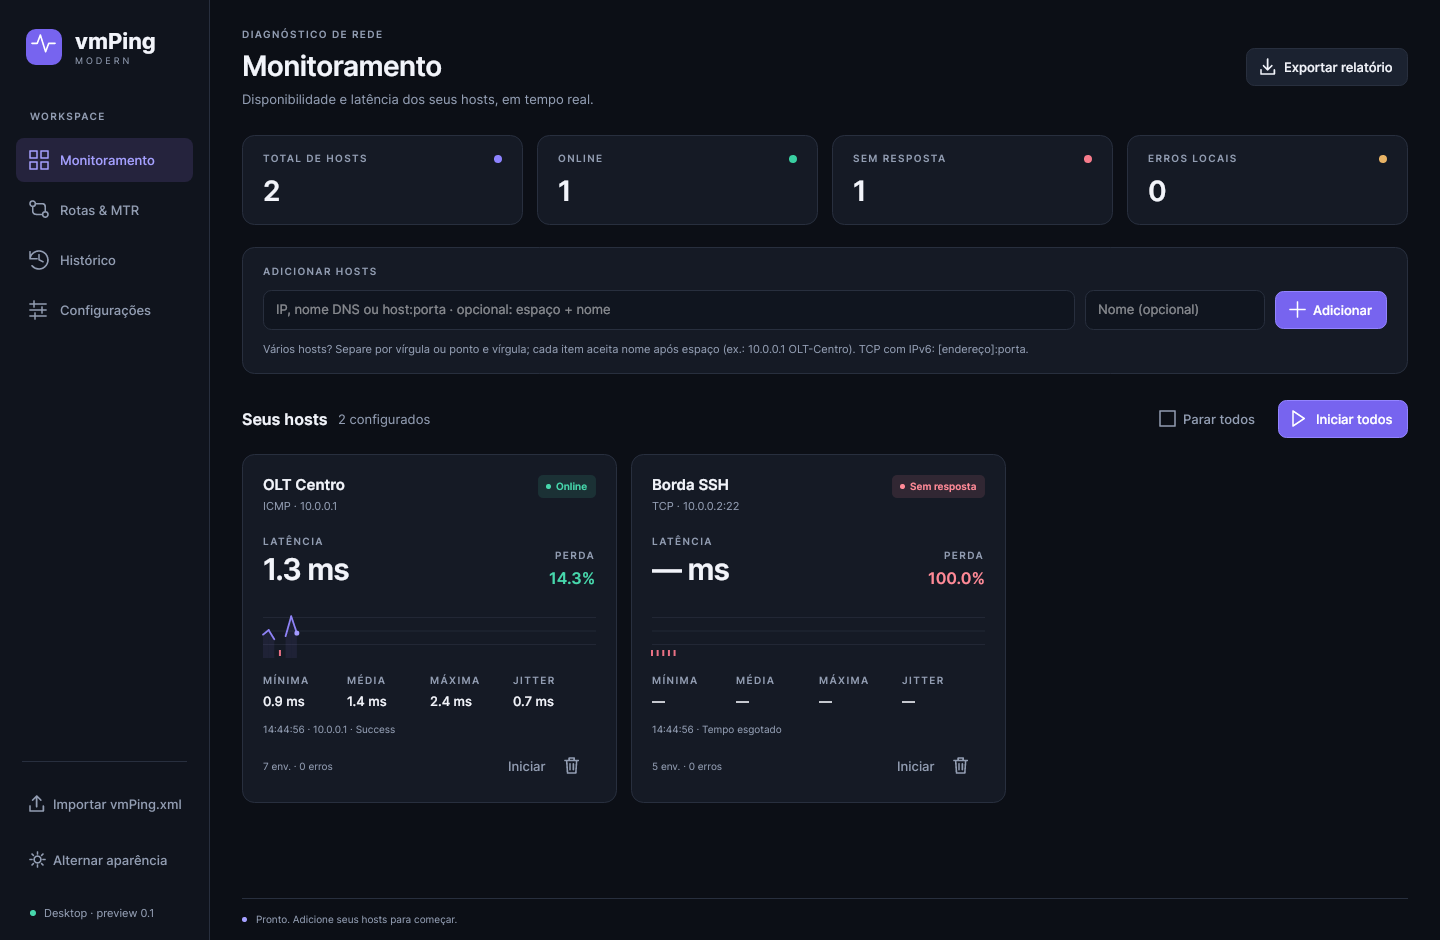
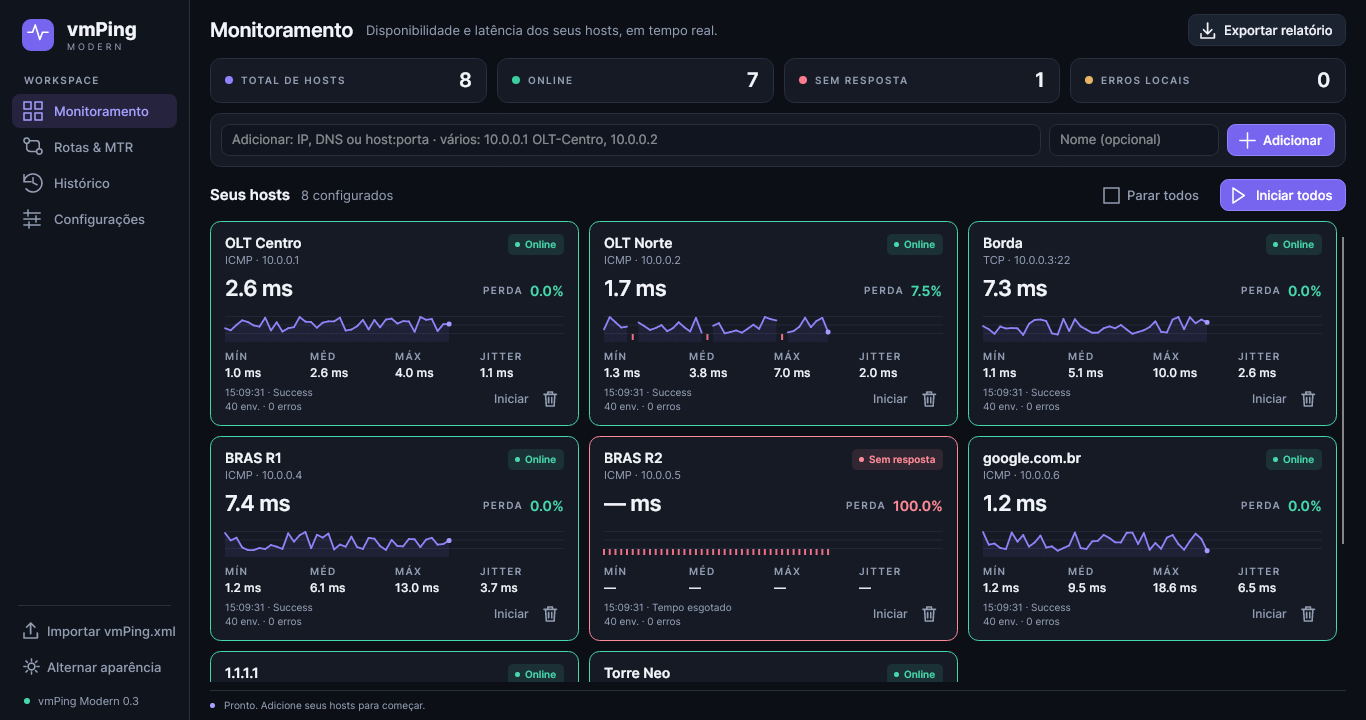
feat: compact layout that fits small screens
- Window opens within the screen working area (was 1440x940 with a 760 px
  minimum height, larger than 1366x768 notebooks); minimum 900x560
- Single-row header, inline status counters, one-line add bar (hint moved
  to tooltip), denser cards with status-colored border: ~6 cards visible
  at 1366x720 instead of 1
- Tighter sidebar, trace, history and settings spacing; smaller controls

diff --git a/modern/src/VmPing.Desktop/MainWindow.axaml.cs b/modern/src/VmPing.Desktop/MainWindow.axaml.cs
@@ -34,7 +34,9 @@ public partial class MainWindow : Window
         alerts = new(SendTelegramAsync, TimeSpan.FromSeconds(5));
         alerts.Failed += ex => Dispatcher.UIThread.Post(() => Footer.Text = $"Falha ao enviar alerta: {ex.Message}");
         InitializeComponent(); DataContext = this;
-        SizeChanged += (_, _) => CardColumns = Math.Clamp((int)((Bounds.Width - 274) / 335), 1, 4);
+        // Sidebar 190 + page margins 40; cards are at least ~280 wide including their 10 px gap.
+        SizeChanged += (_, _) => CardColumns = Math.Clamp((int)((Bounds.Width - 230) / 290), 1, 8);
+        FitToScreen();
         Cards.CollectionChanged += (_, e) =>
         {
             if (e.OldItems is not null) foreach (Card card in e.OldItems) card.StatusChanged -= CardStatusChanged;
@@ -75,6 +77,14 @@ public partial class MainWindow : Window
         };
     }
     private void CardStatusChanged(Card card) => UpdateOverview();
+    // Never open larger than the working area (small notebooks, taskbar, display scaling).
+    private void FitToScreen()
+    {
+        if (Screens.Primary is not { } screen) return;
+        var area = screen.WorkingArea.Size.ToSize(screen.Scaling);
+        Width = Math.Min(Width, area.Width * 0.95); Height = Math.Min(Height, area.Height * 0.95);
+        MinWidth = Math.Min(MinWidth, Width); MinHeight = Math.Min(MinHeight, Height);
+    }
     private void UpdateProbeSettings()
     {
         probeSettings = new(Interval, Timeout);
